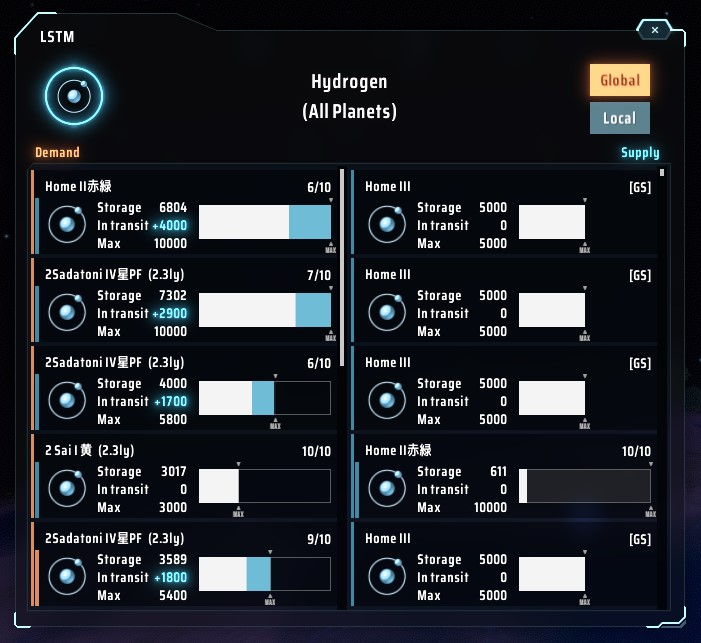
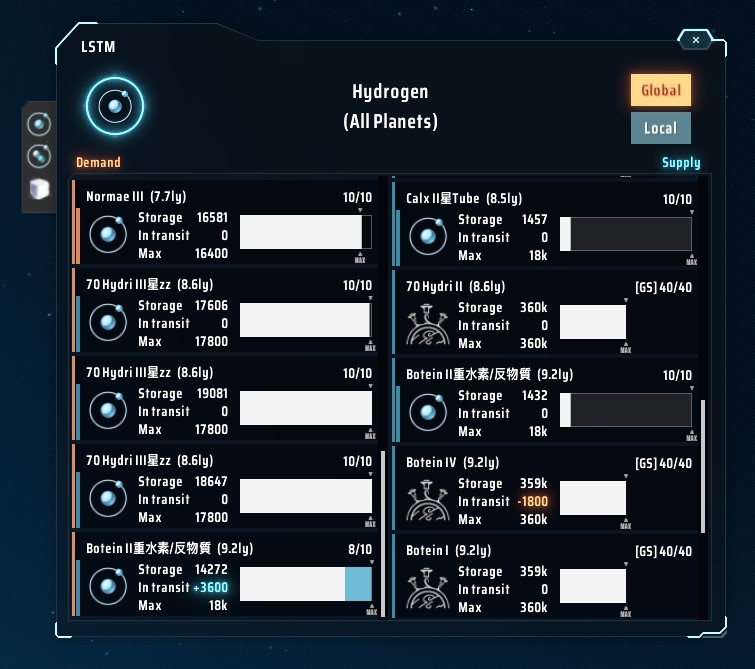
v0.4.0

diff --git a/LSTM/Properties/AssemblyInfo.cs b/LSTM/Properties/AssemblyInfo.cs
@@ -32,5 +32,5 @@ using System.Runtime.InteropServices;
 // すべての値を指定するか、次を使用してビルド番号とリビジョン番号を既定に設定できます
 // 既定値にすることができます:
 // [assembly: AssemblyVersion("1.0.*")]
-[assembly: AssemblyVersion("0.3.6.0")]
-[assembly: AssemblyFileVersion("0.3.6.0")]
+[assembly: AssemblyVersion("0.4.0.0")]
+[assembly: AssemblyFileVersion("0.4.0.0")]

diff --git a/LSTM/LSTM.cs b/LSTM/LSTM.cs
@@ -12,7 +12,7 @@ using UnityEngine.EventSystems;
 namespace LSTMMod
 {
 
-    [BepInPlugin(__GUID__, __NAME__, "0.3.6")]
+    [BepInPlugin(__GUID__, __NAME__, "0.4.0")]
     public class LSTM : BaseUnityPlugin
     {
         public const string __NAME__ = "LSTM";

diff --git a/README.md b/README.md
@@ -78,6 +78,7 @@ LSTM has some settings depend on BepInEx (file name is `com.hetima.dsp.LSTM.cfg`
 |---|---|---|---|
 |mainWindowHotkey|shortcut|LCtrl+T|Hotkey to open/close LSTM window|
 |switchDisplayModeHotkey|shortcut|Tab|Hotkey to switch display mode of LSTM window (New in 0.3.6)|
+|showMaterialPicker|bool|true|Add Material Picker for quick item switching to LSTM window (New in 0.4.0)|
 |showButtonInStationWindow|bool|true|Add open LSTM button to Station Window|
 |showButtonInStatisticsWindow|bool|false|Add open LSTM button to Statistics Window|
 |actAsStandardPanel|bool|true|true: close with other panels by esc key. false: one more esc needed|
@@ -162,6 +163,10 @@ Remote Cluster と Local Cluster は同時に設定できます。
 
 
 ## Release Notes
+
+### 0.4.0
+- Added Material Picker for quick item switching (add config `showMaterialPicker` for customize this)
+- Probably fixed the problem of last slot not showing up when other mods that increase slots are installed
 
 ### v0.3.6
 - Right-click locate button to open the station window (only current local planet).
